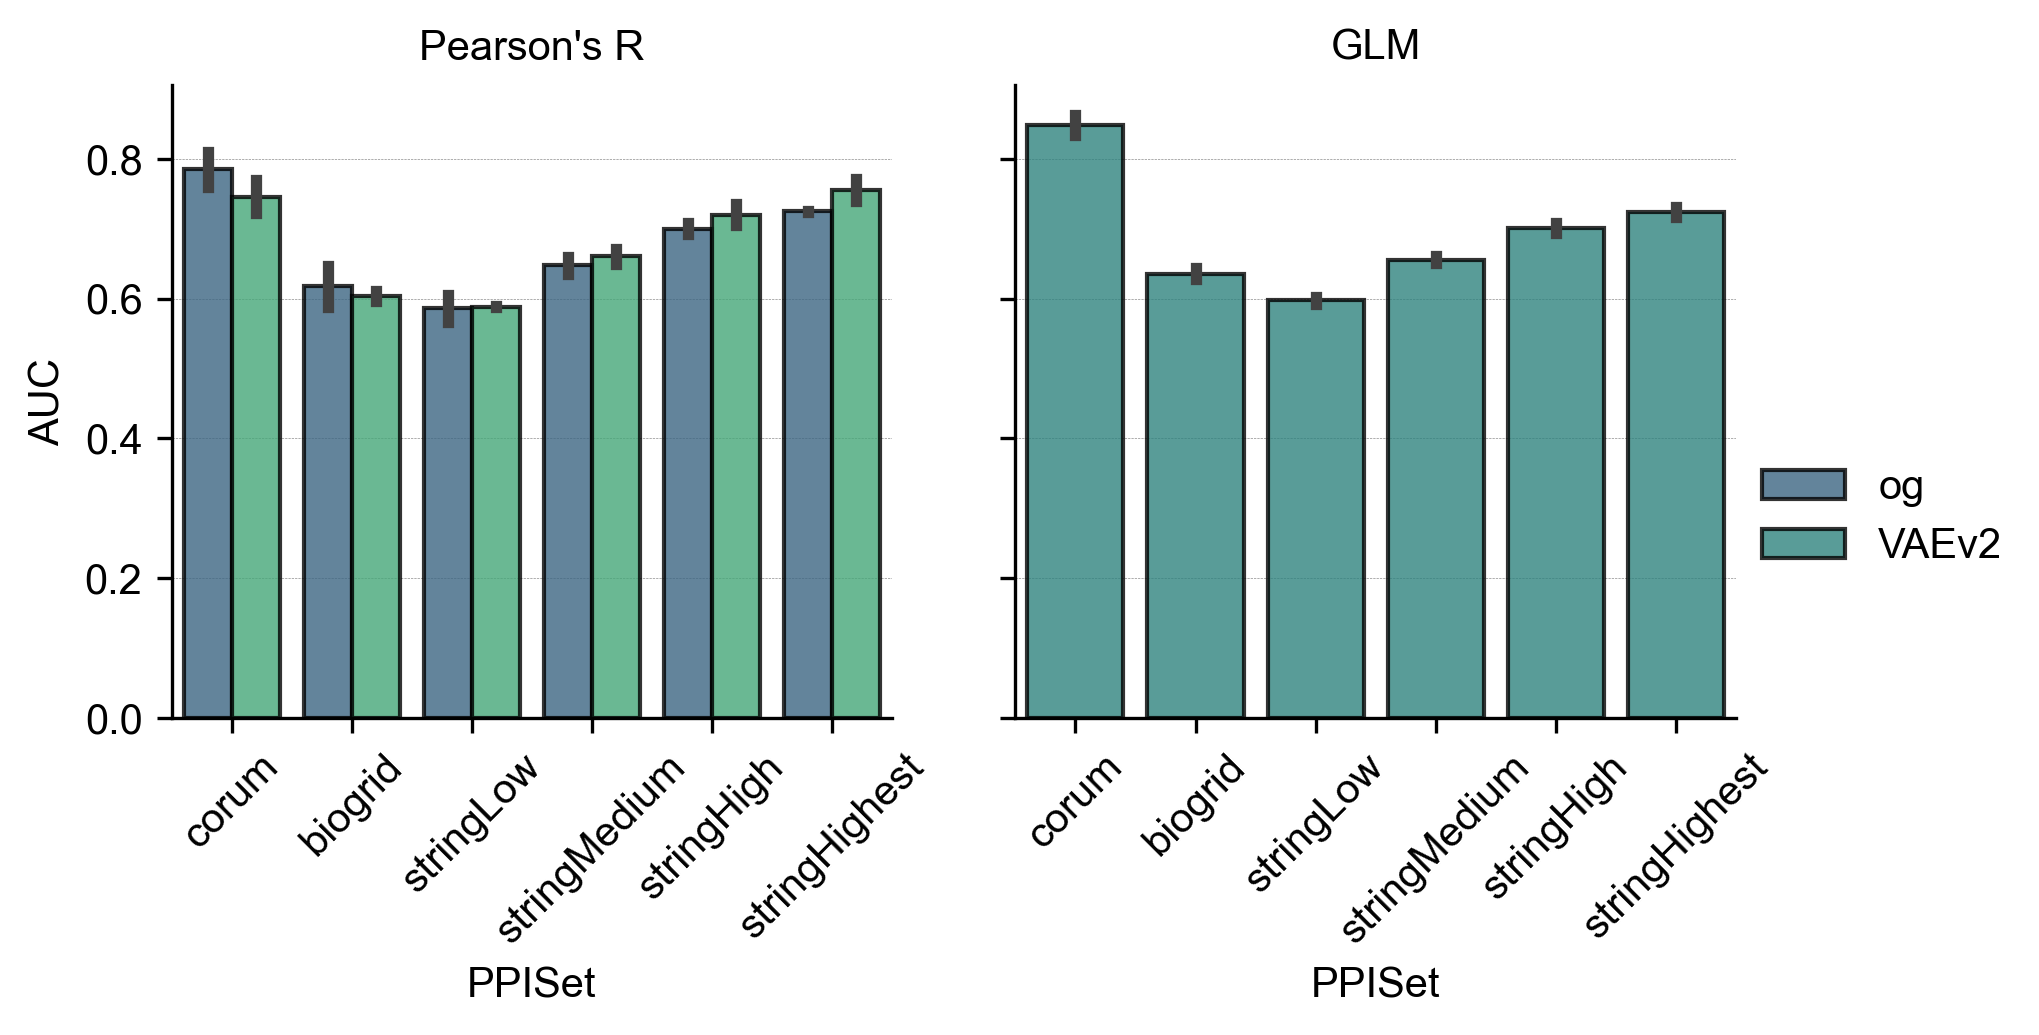
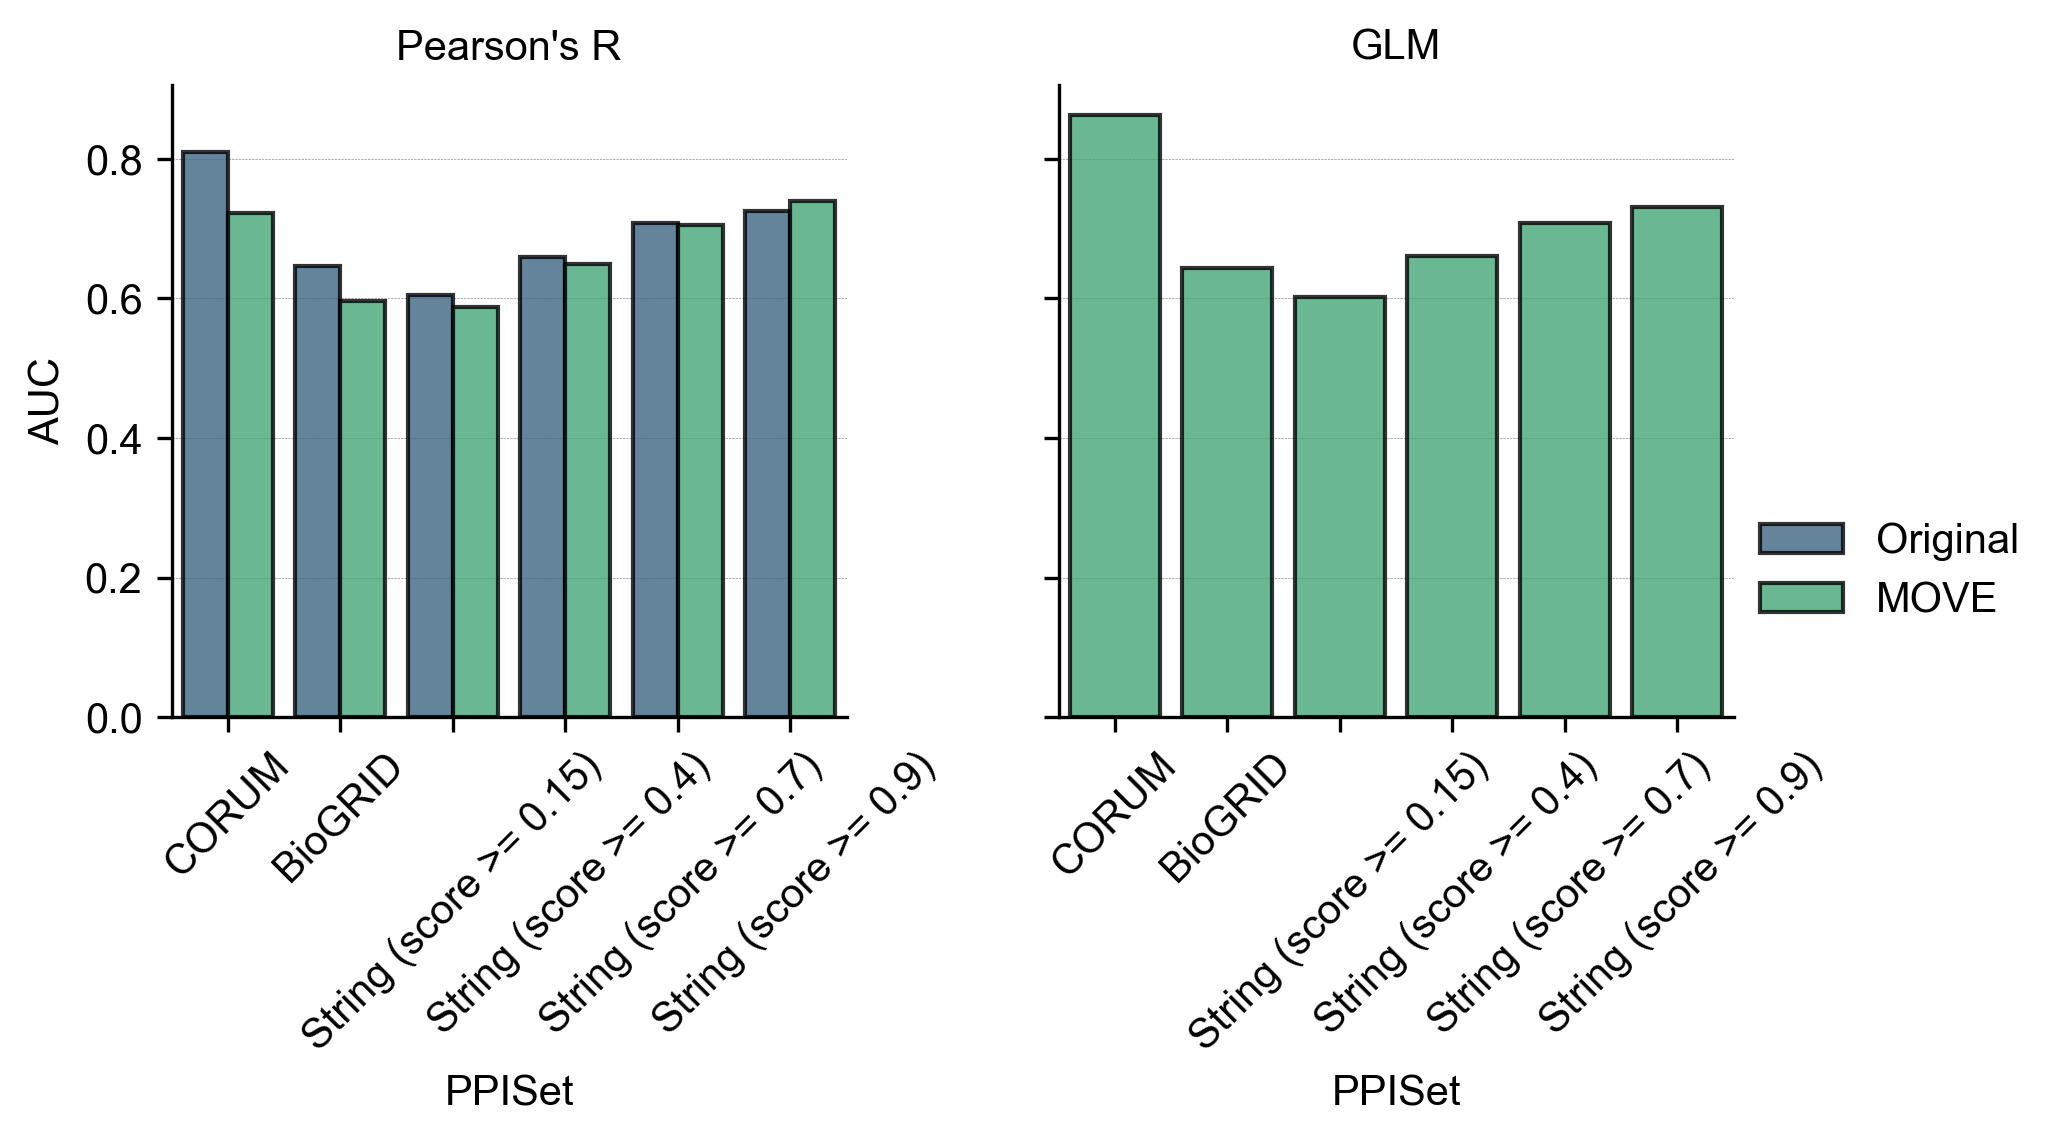
Final Article Figure

diff --git a/src/resources/classes.py b/src/resources/classes.py
@@ -1181,7 +1181,7 @@ class PairwiseCorrMatrix(MatrixData):
 
 
     @classmethod
-    def glsVSPearsonAUC(cls, instances:Iterable[PairwiseCorrMatrix], glsInstances:list[bool], filepath:str):
+    def glsVSPearsonAUC(cls, instances:Iterable[PairwiseCorrMatrix], glsInstances:list[bool], filepath:str, shortcutFile:str = ""):
         """Plots the AUC of the recall curve for each PairwiseCorrMatrix object, and for each external PPI dataset, for both the GLS and Pearson's R methods, using either p-value or coefficient
         All this in a sns.FacetGrid
 
@@ -1190,27 +1190,35 @@ class PairwiseCorrMatrix(MatrixData):
             glsInstances (list[bool]): A list of booleans which state which of the instances have been calculated with GLS or not
             filepath (str): Filepath to save the sns.FacetGrid
         """
-        #verify that all instances have the proteomicsType attribute
-        for instance in instances:
-            assert hasattr(instance, 'proteomicsType'), 'All instances must have the proteomicsType attribute'
-            assert hasattr(instance, 'aucs'), 'All instances must have the aucs attribute'
+        #verify that all instances have the proteomicsType attribute~
 
-        #initialize aucData
-        aucDataTotal = pd.DataFrame()
-        for index, inst in enumerate(instances):
+        if shortcutFile == "":
+            for instance in instances:
+                assert hasattr(instance, 'proteomicsType'), 'All instances must have the proteomicsType attribute'
+                assert hasattr(instance, 'aucs'), 'All instances must have the aucs attribute'
 
-            aucData = pd.DataFrame(inst.aucs)
-            aucData = aucData.unstack().reset_index()
-            aucData.columns = ['metric', 'PPISet', 'auc']
-            aucData['proteomicsType'] = inst.proteomicsType 
-            aucData['method'] = 'GLM' if glsInstances[index] else "Pearson's R"
-            #join with aucData
-            aucDataTotal = pd.concat([aucDataTotal, aucData])
+            #initialize aucData
+            aucDataTotal = pd.DataFrame()
+            for index, inst in enumerate(instances):
+
+                aucData = pd.DataFrame(inst.aucs)
+                aucData = aucData.unstack().reset_index()
+                aucData.columns = ['metric', 'PPISet', 'auc']
+                aucData['proteomicsType'] = inst.proteomicsType 
+                aucData['method'] = 'GLM' if glsInstances[index] else "Pearson's R"
+                #join with aucData
+                aucDataTotal = pd.concat([aucDataTotal, aucData])
+        else:
+            aucDataTotal = pd.read_csv(shortcutFile)
 
         #Initiate FacetGrid
-        aucData = aucDataTotal.drop(columns=['metric'])
+        aucData = aucDataTotal.loc[aucDataTotal['metric'] == "p-value",:]
+        palette = sns.color_palette(
+            "viridis", n_colors=aucData['proteomicsType'].nunique())
+        color_dict = dict(zip(aucData['proteomicsType'].unique(), palette))
         g = sns.FacetGrid(aucData, col='method', sharey=True, sharex=True)
-        g.map_dataframe(sns.barplot, x='PPISet', y='auc', hue='proteomicsType', palette='viridis', alpha=0.8, edgecolor='k', linewidth=1)
+        g.map_dataframe(sns.barplot, x='PPISet', hue='proteomicsType', y='auc',
+                        palette=color_dict, alpha=0.8, edgecolor='k', linewidth=1)
         g.add_legend()
         g.set_axis_labels('PPISet', 'AUC')
         g.set_titles('{col_name}')

diff --git a/src/main.py b/src/main.py
@@ -49,7 +49,7 @@ if __name__ == '__main__':
 
     instances = [ogPearson, pearsonPairwiseVAEv2, glmPairwiseVAEv2]
     #Compare all aucs
-    aucData = PairwiseCorrMatrix.glsVSPearsonAUC(instances, [0,0,1], "allAUCsBarPlotv2.png")
+    aucData = PairwiseCorrMatrix.glsVSPearsonAUC(None, None, "allAUCsBarPlotv2.png", "allAUCs.csv")
 
     aucData.to_csv('allAUCs.csv', index=False)
 
